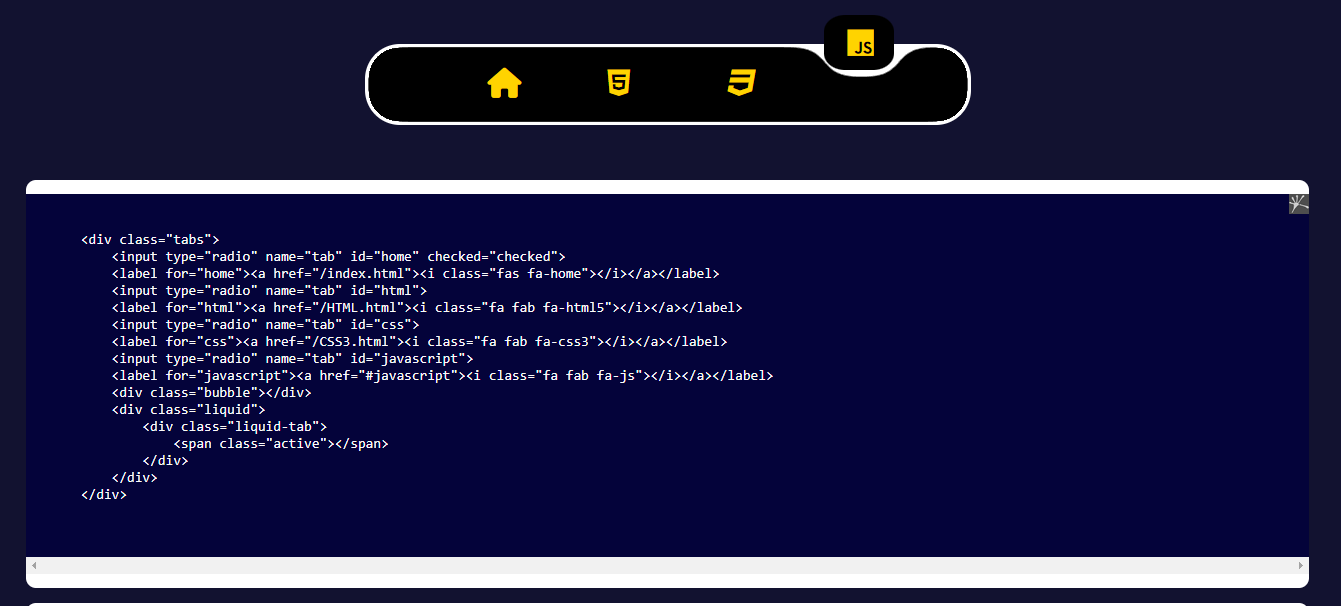
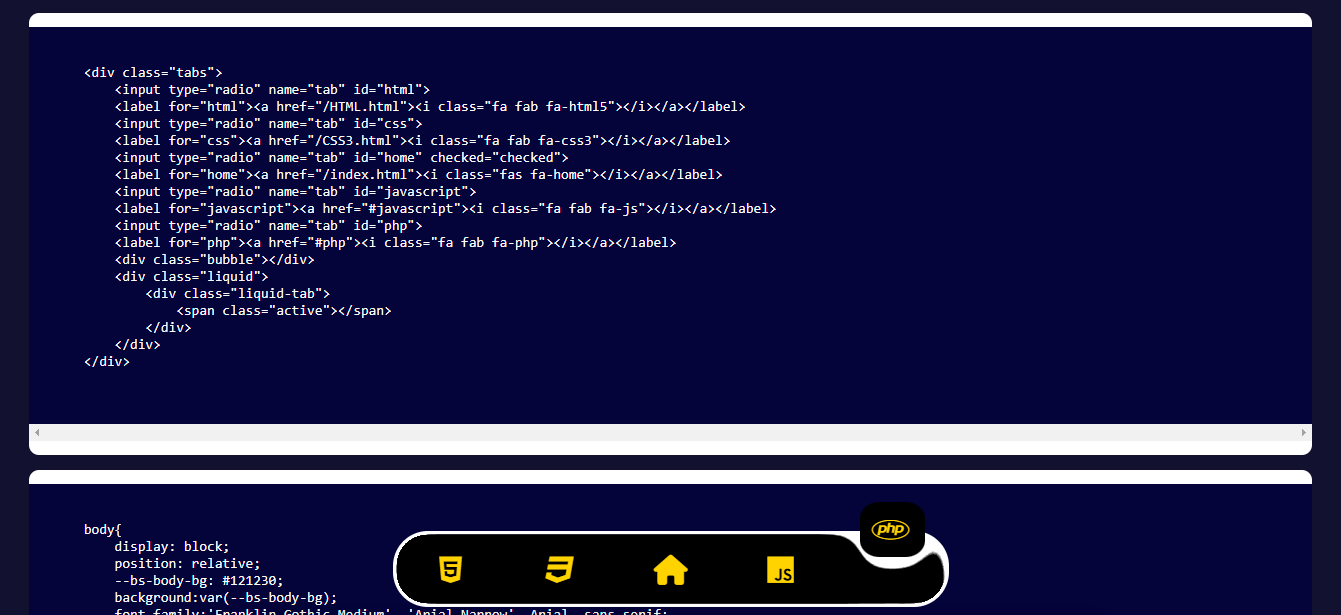
add nav

diff --git a/pages/navigation/nav2h.html b/pages/navigation/nav2h.html
@@ -1,0 +1,179 @@
+<!DOCTYPE html>
+<html lang="ar">
+<head>
+    <meta charset="UTF-8">                                                
+    <meta name="viewport" content="width=device-width, initial-scale=1.0">
+    <meta http-equiv="X-UA-Compatible" content="ie=edge"> 
+    <style>
+        /* start col */
+    .col{
+    align-items: center;
+    color: #000;
+    background-color: #fff;
+    border: unset;
+    text-align: justify;
+    font-size: 20px;
+    margin: 5px;
+    border-radius: 10px;
+    }
+    /* end col */
+    /*start container*/
+    .container {
+    --bs-gutter-x: 0rem;
+    --bs-gutter-y: 0;
+    width: 100%;
+    padding-right: 0;
+    padding-left: 0;
+    margin-right: auto;
+    margin-left: auto;
+    }
+    /* end container */
+    /* start row */
+    .row{
+    height: auto;
+    display: flex;
+    justify-content: center;
+    margin: 5px 20px 5px 20px;
+    padding-left: 0px;
+    padding-right: 0px;
+    }
+    /* end row */
+    .col-12{
+        width: 100%;
+        }
+        @media only screen and (max-width: 768px){
+            .row{
+                flex-wrap: wrap;
+            }
+    }
+    pre {
+        -webkit-overflow-scrolling: touch;
+        word-wrap: normal;
+        background-color: #04033a;
+        color: #fafafa;
+        font-size: 14px;
+        overflow-x: scroll;
+        padding: 1.25rem 1.5rem;
+        white-space: pre;
+    }
+    code, pre {
+    -moz-osx-font-smoothing: auto;
+    -webkit-font-smoothing: auto;
+    font-family: monospace;
+    }
+    </style>
+    <link rel="stylesheet" href="/css/container/nav2h.css">
+    <link rel="stylesheet" href="/css/vendors/animate.css">    
+    <link rel="stylesheet" href="https://cdnjs.cloudflare.com/ajax/libs/font-awesome/6.4.0/css/all.min.css">                               
+    <title>framework template</title>                                                                                                                                              
+</head>
+    <body>  
+        <nav class="nav2h">
+                <div class="box"><a href="/HTML.html"><i class="fa fab fa-html5"></i></a></div>
+                <div class="box"><a href="/CSS3.html"><i class="fa fab fa-css3"></i></a></div>
+                <div class="box"><a href="/index.html"><i class="fa fas fa-home fa-bounce"></i></a></div>
+                <div class="box"><a href="#javascrips"><i class="fa fab fa-js"></i></a></div>
+                <div class="box"><a href="#php"><i class="fab fa-php"></i></a></div>
+        </nav>  
+            <div class="container">
+                <div class="row">
+                    <div class="col col-12">
+                        <pre>
+                            <code>
+    &lt;nav class="nav2h"&gt;
+        &lt;div class="box"&gt;&lt;a href="/HTML.html"&gt;&lt;i class="fa fab fa-html5"&gt;&lt;/i&gt;&lt;/a&gt;&lt;/div&gt;
+        &lt;div class="box"&gt;&lt;a href="/CSS3.html"&gt;&lt;i class="fa fab fa-css3"&gt;&lt;/i&gt;&lt;/a&gt;&lt;/div&gt;
+        &lt;div class="box"&gt;&lt;a href="/index.html"&gt;&lt;i class="fa fas fa-home fa-bounce"&gt;&lt;/i&gt;&lt;/a&gt;&lt;/div&gt;
+        &lt;div class="box"&gt;&lt;a href="#javascrips"&gt;&lt;i class="fa fab fa-js"&gt;&lt;/i&gt;&lt;/a&gt;&lt;/div&gt;
+        &lt;div class="box"&gt;&lt;a href="#php"&gt;&lt;i class="fab fa-php"&gt;&lt;/i&gt;&lt;/a&gt;&lt;/div&gt;
+    &lt;/nav&gt;
+                            </code>
+                        </pre>
+                    </div>
+                </div>
+                <div class="row">
+                    <div class="col col-12">
+                        <pre>
+                            <code>                    
+    body{
+        display: block;
+        position: relative;
+        --bs-body-bg: #121230;
+        background:var(--bs-body-bg);
+        font-family:'Franklin Gothic Medium', 'Arial Narrow', Arial, sans-serif;
+        }
+    
+       /* start nav-bar */
+       .nav2h{
+        width: 300px;
+        bottom: 10px;
+        left: 50%;
+        border-radius: 50px;
+        background: #3d3636;
+        color: #fff;
+        transform: translate(-50%, -10px);
+        display: flex;
+        justify-content: space-around;
+        position: fixed;
+      
+       }
+       .nav2h::before{
+        content: '';
+        position: absolute;
+        top: -5%;
+        left: -1.5%;
+        width: 100%;
+        height: 100%;
+        border-radius: 67px;
+        background: linear-gradient(to right,#3f574300,#272727);
+        z-index: -1;
+        transition: background 4s;
+       }
+       .nav2h:hover::before{
+        background: linear-gradient(to right,#434244,#e0dfe4);
+       }
+       .box{
+        width: 80px;
+        height: 55px;
+        display: flex;
+        justify-content: center;
+        align-items: center;
+        border-radius: 60px;
+        cursor: pointer;
+        transition: transform 0.4s;
+    }
+        .box:hover{
+            transform: translatey(-10px);
+            background: linear-gradient(to right,#ffffff,#9e92b1);
+        }
+        i{
+            font-size: 25px;
+            color: #fff;
+            cursor: pointer;
+            transition: transform 0.4s;
+        }
+        .box:hover i{
+            transform: scale(1.5);
+        }
+        .box:hover:nth-child(1) a i{
+            color: #1e87f0;
+        }
+        .box:hover:nth-child(2) a i{
+            color: #df3c0b;
+        }
+        .box:hover:nth-child(3) a i{
+            color: #0d31d1;
+        }
+        .box:hover:nth-child(4) a i{
+            color: #dfd110;
+        }
+        .box:hover:nth-child(5) a i{
+            color: #be0fe0;
+        }
+                            </code>
+                        </pre>
+                    </div>
+                </div>
+            </div>
+    </body>
+</html>

diff --git a/css/container/nav2h.css b/css/container/nav2h.css
@@ -1,0 +1,75 @@
+body{
+    display: block;
+    position: relative;
+    --bs-body-bg: #121230;
+    background:var(--bs-body-bg);
+    font-family:'Franklin Gothic Medium', 'Arial Narrow', Arial, sans-serif;
+    }
+
+   /* start nav-bar */
+   .nav2h{
+    width: 300px;
+    bottom: 10px;
+    left: 50%;
+    border-radius: 50px;
+    background: #3d3636;
+    color: #fff;
+    transform: translate(-50%, -10px);
+    display: flex;
+    justify-content: space-around;
+    position: fixed;
+  
+   }
+   .nav2h::before{
+    content: '';
+    position: absolute;
+    top: -5%;
+    left: -1.5%;
+    width: 100%;
+    height: 100%;
+    border-radius: 67px;
+    background: linear-gradient(to right,#3f574300,#272727);
+    z-index: -1;
+    transition: background 4s;
+   }
+   .nav2h:hover::before{
+    background: linear-gradient(to right,#434244,#e0dfe4);
+   }
+   .box{
+    width: 80px;
+    height: 55px;
+    display: flex;
+    justify-content: center;
+    align-items: center;
+    border-radius: 60px;
+    cursor: pointer;
+    transition: transform 0.4s;
+}
+    .box:hover{
+        transform: translatey(-10px);
+        background: linear-gradient(to right,#ffffff,#9e92b1);
+    }
+    i{
+        font-size: 25px;
+        color: #fff;
+        cursor: pointer;
+        transition: transform 0.4s;
+    }
+    .box:hover i{
+        transform: scale(1.5);
+    }
+    .box:hover:nth-child(1) a i{
+        color: #1e87f0;
+    }
+    .box:hover:nth-child(2) a i{
+        color: #df3c0b;
+    }
+    .box:hover:nth-child(3) a i{
+        color: #0d31d1;
+    }
+    .box:hover:nth-child(4) a i{
+        color: #dfd110;
+    }
+    .box:hover:nth-child(5) a i{
+        color: #be0fe0;
+    }

diff --git a/pages/navigation/nav2g.html b/pages/navigation/nav2g.html
@@ -74,7 +74,7 @@
             <input type="radio" name="tab" id="css">
             <label for="css"><a href="/CSS3.html"><i class="fa fab fa-css3"></i></a></label>
             <input type="radio" name="tab" id="home" checked="checked">
-            <label for="home"><a href="/index.html"><i class="fas fa-home"></i></a></label>
+            <label for="home"><a href="/index.html"><i class="fas fa-home fa-bounce"></i></a></label>
             <input type="radio" name="tab" id="javascript">
             <label for="javascript"><a href="#javascript"><i class="fa fab fa-js"></i></a></label>
             <input type="radio" name="tab" id="php">
@@ -97,7 +97,7 @@
         &lt;input type="radio" name="tab" id="css"&gt;
         &lt;label for="css"&gt;&lt;a href="/CSS3.html"&gt;&lt;i class="fa fab fa-css3"&gt;&lt;/i&gt;&lt;/a&gt;&lt;/label&gt;
         &lt;input type="radio" name="tab" id="home" checked="checked"&gt;
-        &lt;label for="home"&gt;&lt;a href="/index.html"&gt;&lt;i class="fas fa-home"&gt;&lt;/i&gt;&lt;/a&gt;&lt;/label&gt;
+        &lt;label for="home"&gt;&lt;a href="/index.html"&gt;&lt;i class="fas fa-home fa-bounce"&gt;&lt;/i&gt;&lt;/a&gt;&lt;/label&gt;
         &lt;input type="radio" name="tab" id="javascript"&gt;
         &lt;label for="javascript"&gt;&lt;a href="#javascript"&gt;&lt;i class="fa fab fa-js"&gt;&lt;/i&gt;&lt;/a&gt;&lt;/label&gt;
         &lt;input type="radio" name="tab" id="php"&gt;
@@ -190,7 +190,7 @@
       }
       .bubble {
         position: absolute;
-        width: 65px;
+        width: 60px;
         height: 55px;
         background: #000000;
         top: -30px;

diff --git a/CSS3.html b/CSS3.html
@@ -270,11 +270,11 @@
                                         <li><i class="fab fa-telegram"></i></li>
                                         <li><i class="fab fa-instagram"></i></li>
                                     </ul>
-                                    <a target="_blank" href="./img/4.PNG"><img src="./img/4.PNG" /></a>
+                                    <a target="_blank" href="./img/8.PNG"><img src="./img/8.PNG" /></a>
                                     <div class="con-text">
-                                        <h4>example navbar 4</h4>
+                                        <h4>navbar Use CSS media queries and effects button for mobile</h4>
                                         <P>
-                                            <button><i class="fas fa-code"><a href="./pages/navigation/nav2d.html">
+                                            <button><i class="fas fa-code"><a href="./pages/navigation/nav2h.html">
                                                 see page</a></i>
                                             </button>
                                         </P>

diff --git a/css/container/nav2g.css b/css/container/nav2g.css
@@ -6,7 +6,7 @@ body{
     font-family:'Franklin Gothic Medium', 'Arial Narrow', Arial, sans-serif;
     }
 
-   /* start nav-bar-2 */
+   /* start nav-bar */
    .tabs {
     margin: 20px auto;
     width: 550px;
@@ -71,7 +71,7 @@ body{
   }
   .bubble {
     position: absolute;
-    width: 65px;
+    width: 60px;
     height: 55px;
     background: #000000;
     top: -30px;

diff --git a/css/container/nav2b.css b/css/container/nav2b.css
@@ -5,7 +5,7 @@ body{
     background:var(--bs-body-bg);
     font-family:'Franklin Gothic Medium', 'Arial Narrow', Arial, sans-serif;
     }
-/* start nav-bar-3 on header */
+/* start nav-bar on header */
 .nav2b{
     display: flex;
     flex-wrap: wrap;

diff --git a/css/container/nav2e.css b/css/container/nav2e.css
@@ -6,7 +6,7 @@ body{
     font-family:'Franklin Gothic Medium', 'Arial Narrow', Arial, sans-serif;
     }
 
-   /* start nav-bar-2 */
+   /* start nav-bar */
    .main-grid{
     background-color: #1a1a4e21;
     height: 80px;
